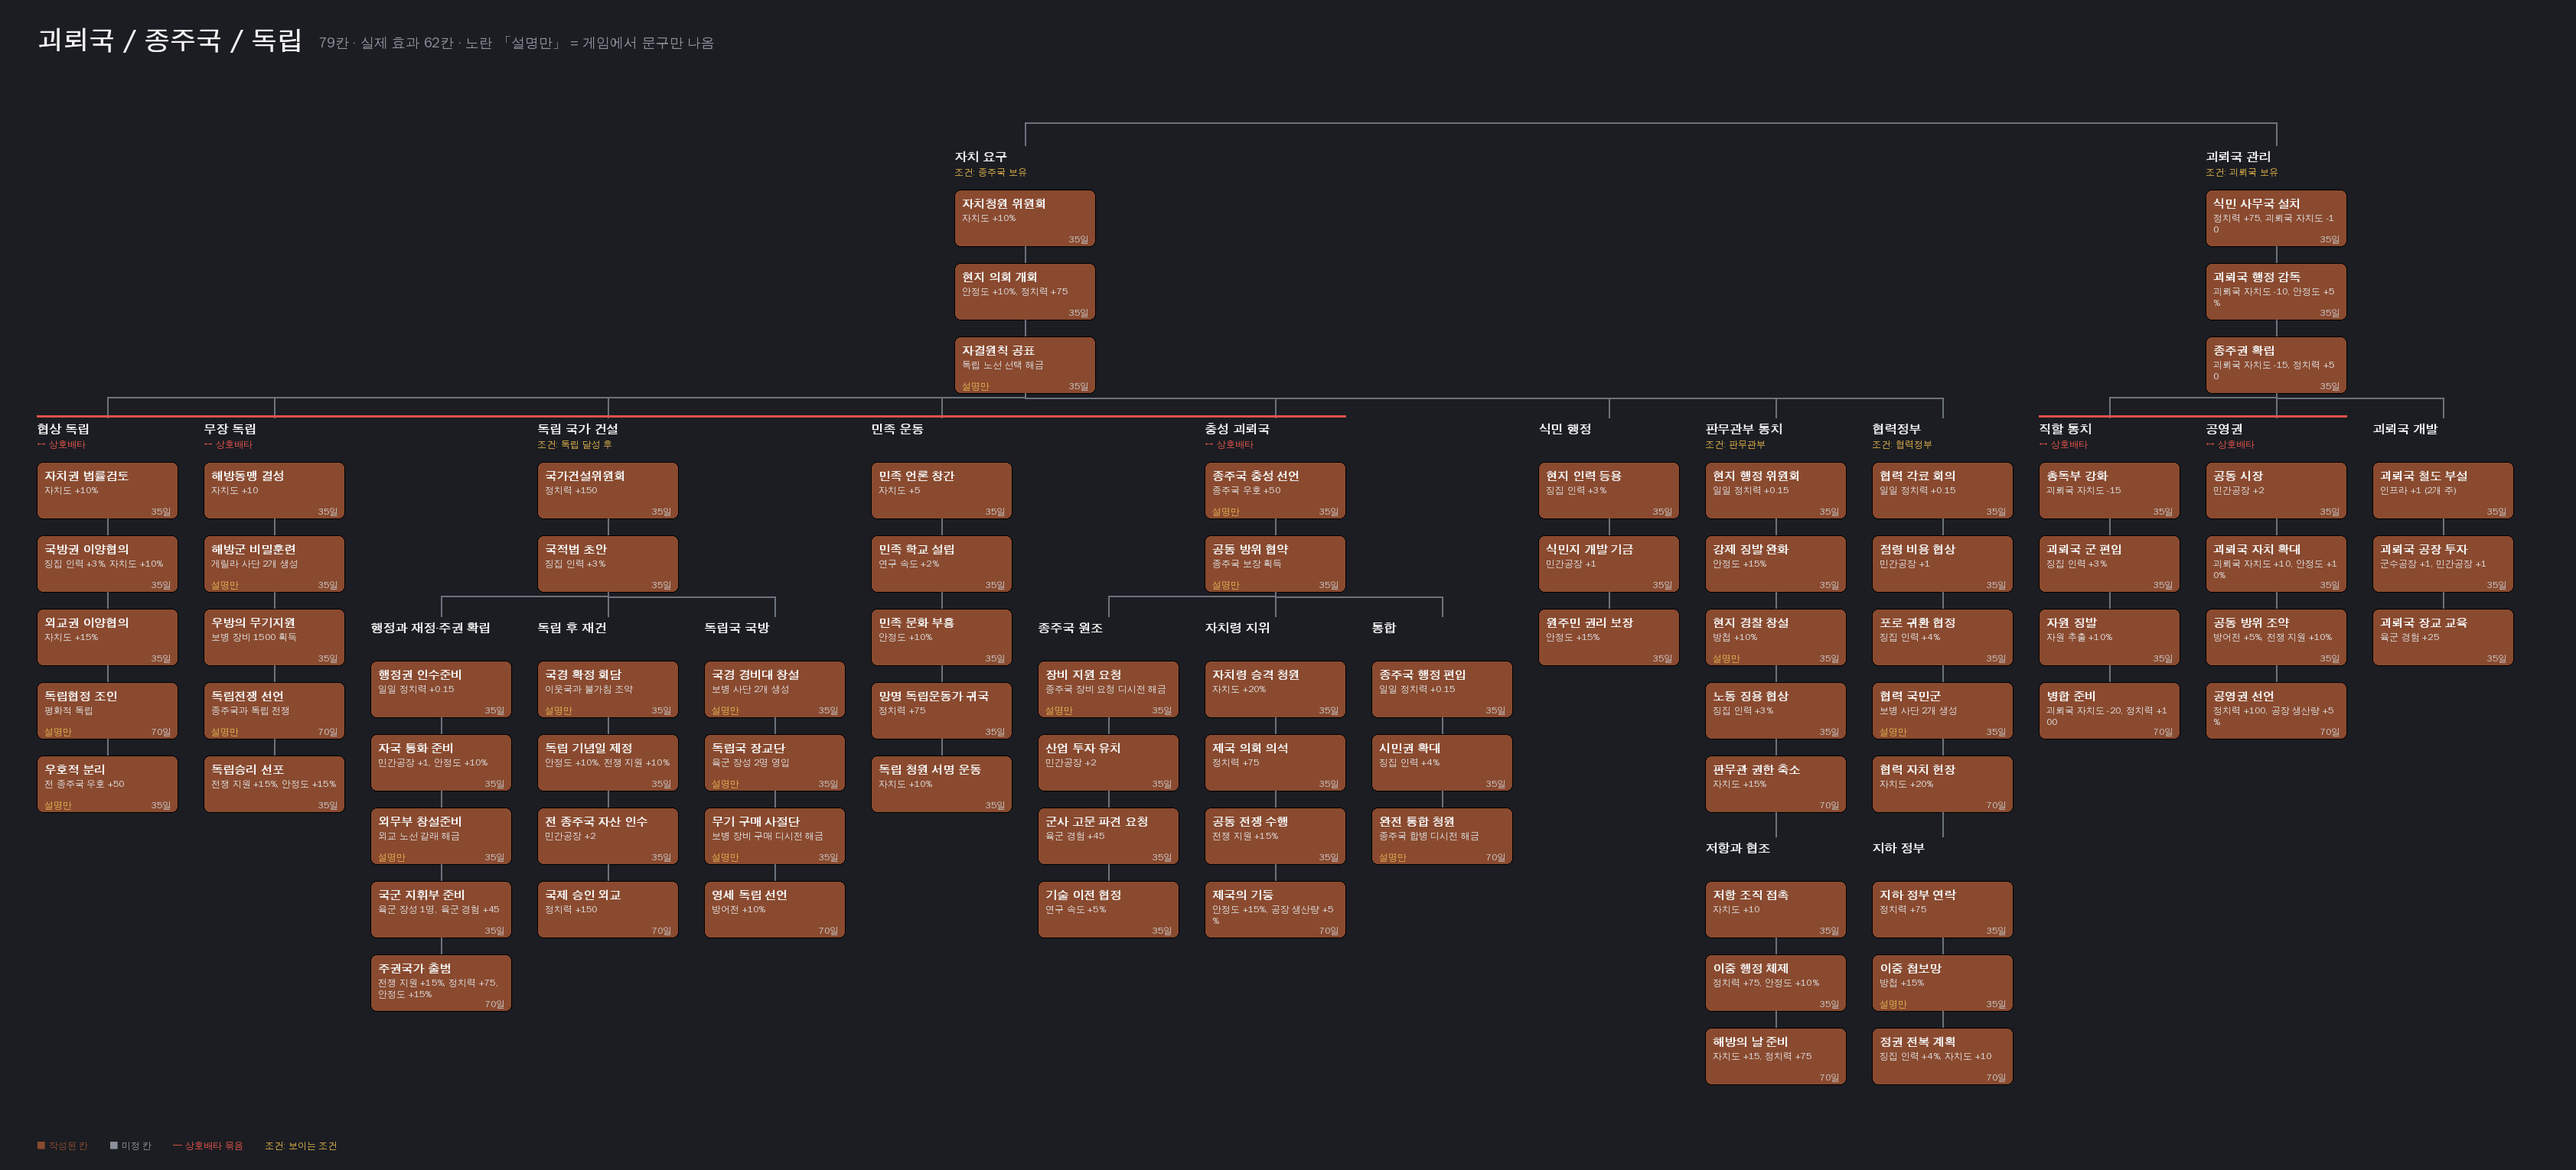
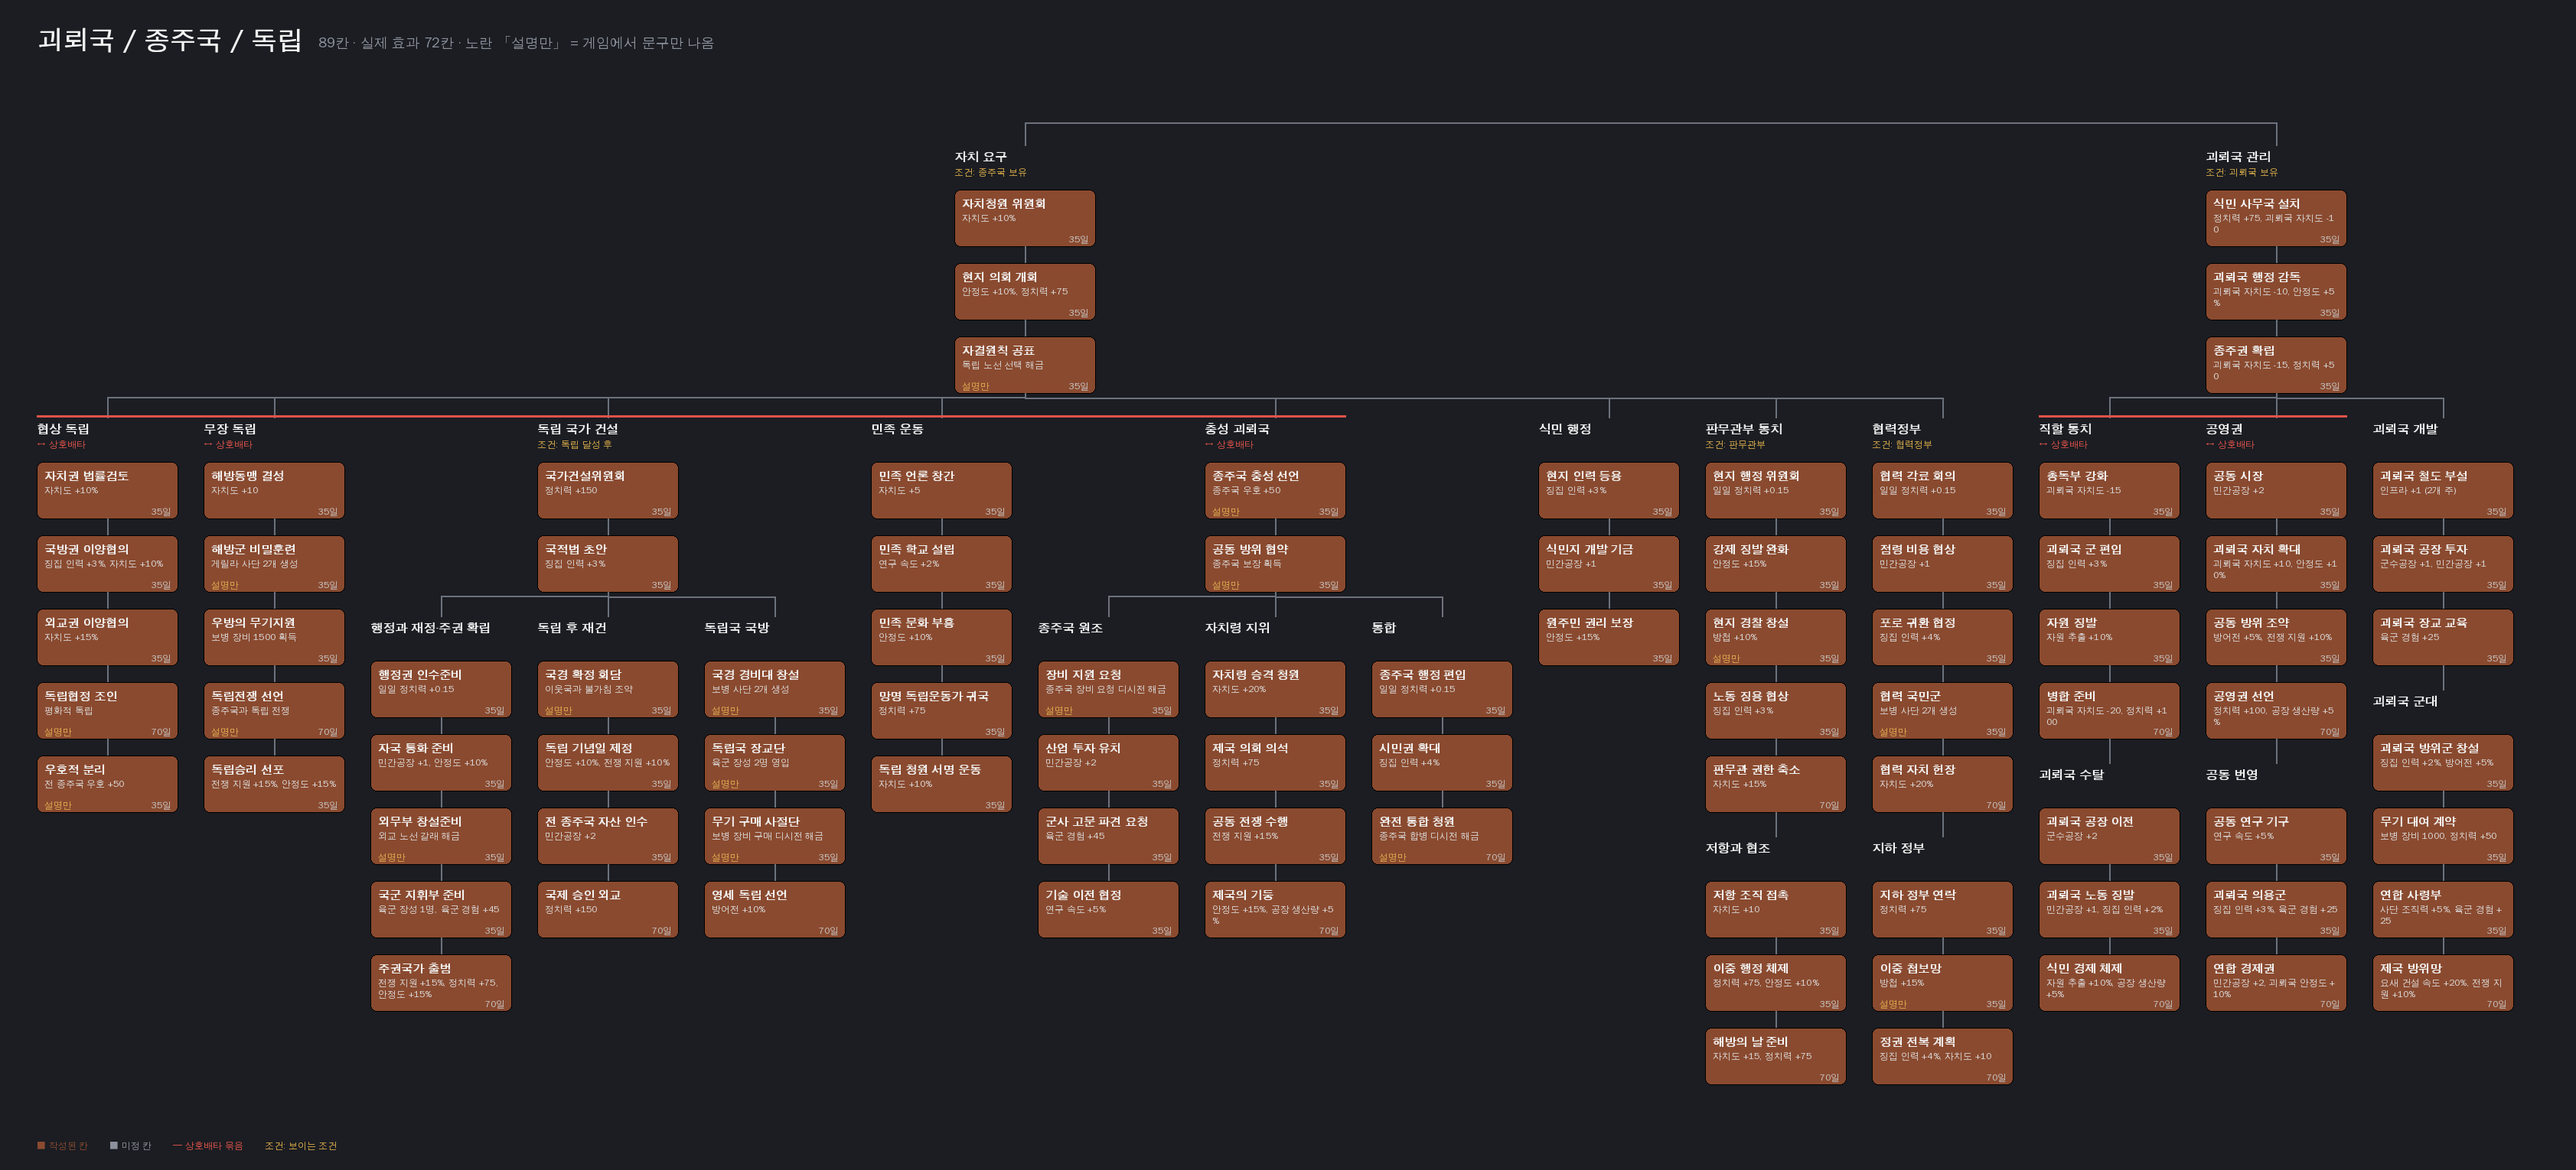
기본 중점 0.3.2: 종주국 갈래 10칸 추가
Claude-Session: https://claude.ai/code/session_01EV9WLLkUNfyAmE79ST4UtP

Changed region(s): [[0.7799, 0.6144, 0.9982, 0.8908]]

diff --git a/design/generic_tree/build_mod.py b/design/generic_tree/build_mod.py
@@ -130,8 +130,10 @@ def rewards(effect):
         out.append(f"add_offsite_building = {{ type = arms_factory level = {n} }}")
     if (n := num(effect, r"해군 조선소 \+(\d+)")):
         out.append(f"add_offsite_building = {{ type = dockyard level = {n} }}")
-    if (n := num(effect, r"안정도 \+(\d+)%")):
+    if (n := num(effect, r"(?<!괴뢰국 )안정도 \+(\d+)%")):
         out.append(f"add_stability = {n / 100:.2f}")
+    if (n := num(effect, r"괴뢰국 안정도 \+(\d+)%")):
+        out.append(f"every_subject_country = {{ add_stability = {n / 100:.2f} }}")
     if (n := num(effect, r"전쟁 지원 \+(\d+)%")):
         out.append(f"add_war_support = {n / 100:.2f}")
     if (n := num(effect, r"육군 경험 \+(\d+)")):

diff --git a/design/generic_tree/REPORT.md b/design/generic_tree/REPORT.md
@@ -1,8 +1,13 @@
-# 작업 보고서 — 기본 중점 변경 모드 0.3.1
+# 작업 보고서 — 기본 중점 변경 모드 0.3.2
 
 - 작성: Claude, 2026-10-12 23:30 (KST)
 - 브랜치: `claude/brave-bardeen-n1yqiz`
 - 대상 게임: HOI4 1.19.3.0.c01a (5632)
+
+## 0-6. 0.3.2 변경 (2026-10-14 KST)
+
+- **종주국 +10칸** (14 → 24칸): 직할 통치 뒤 「괴뢰국 수탈」 3, 공영권 뒤 「공동 번영」 3, 괴뢰국 개발 뒤 「괴뢰국 군대」 4.
+  「연합 경제권」은 모든 괴뢰국의 안정도를 올린다(`every_subject_country`). 전체 726칸.
 
 ## 0-5. 0.3.1 변경 (2026-10-14 KST)
 

diff --git a/design/generic_tree/SPEC.md b/design/generic_tree/SPEC.md
@@ -1,6 +1,6 @@
 # 기본 중점 확장 — 구성 데이터 규격
 
-HOI4 기본(제네릭) 포커스 트리를 716칸으로 새로 짜는 **설계 단계** 자료다. 게임 코드가 아니라 구성안이다.
+HOI4 기본(제네릭) 포커스 트리를 726칸으로 새로 짜는 **설계 단계** 자료다. 게임 코드가 아니라 구성안이다.
 `data/*.json` 을 `check.py` 가 검사하고 `render.py` 가 읽어 `img/` 에 트리 그림을 만든다.
 작업 분담과 절차는 `AGENTS.md` 에 있다.
 
